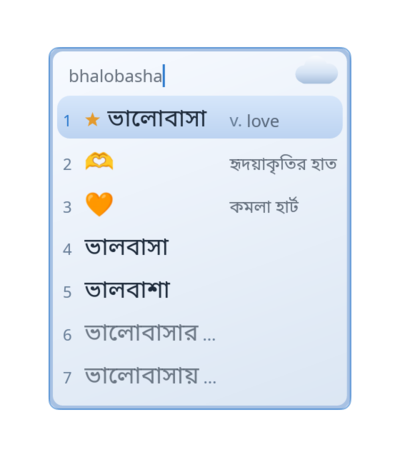
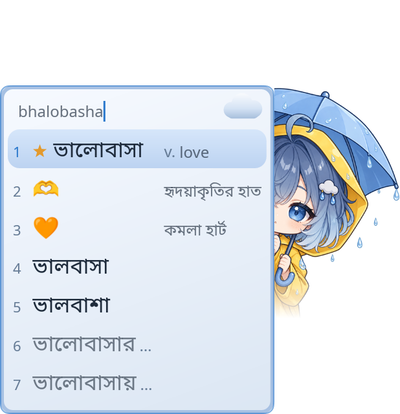
docs: the mascots of the Shapla, Borsha and Jonaki themes, their screenshots and the popup overhang per layout

diff --git a/docs/design/candidate-window.md b/docs/design/candidate-window.md
@@ -39,13 +39,13 @@ Cost of the choice: the popup is placed at window origin + cursor rectangle, so 
 
 ## Themes
 
-The horizontal list draws each candidate as a small column: the number and the word on top and the English meaning on a line below, with the highlight covering both lines. The line is reserved only when some candidate has a meaning (`when: "annotations"`). All built-in themes share this item. There is no paging: the Server shows at most nine candidates, so there are no page arrows.
+The horizontal list draws each candidate as a small column: the number and the word on top and the English meaning on a line below, with the highlight covering both lines. The line is reserved only when some candidate has a meaning (`when: "annotations"`). All built-in themes share this item. Mascots stand or lie outside the card and each picture is cut, sized and described in its theme's `README.md`. There is no paging: the Server shows at most nine candidates, so there are no page arrows.
 
 - `bornopata`: white-to-mint card, radius 14, layered shadow, green highlight pill with a gradient, star for learned words, trailing ellipsis for completions, arrow for next-word suggestions, a `Tab` chip.
 - `sakura`: bright pink glass with a mascot (a chibi girl with a green leaf hairpin, `images/character.png`, supplied by the project owner; see the theme's README) resting her paws on the top-left edge of the card, a bow, an outline crown that bobs, petals drifting and blossoms rocking in a loop (the animation is why the window asks for repeated frames). `meta.popup_overhang` says how far this decoration may hang over the card in the Wayland popup. Locked to light. Built-in themes list their images in `src/theme/mod.rs`; a test fails when a file is not listed.
-- `shapla`: a cool water-lily card (the national flower of Bangladesh), white and pale teal, a lily in the top-right corner and two ripples spreading at the bottom. Locked to light.
-- `borsha`: a rainy-day card, blue-grey with squarer corners, a cloud in the corner and raindrops falling through the window. Locked to light.
-- `jonaki`: a night card, deep indigo with a gold border, a crescent moon in the corner and three fireflies drifting and glowing. Locked to dark.
+- `shapla`: a cool water-lily card (the national flower of Bangladesh), white and pale teal, a lily in the top-right corner and two ripples spreading at the bottom. The mascot is a chibi girl with a long white-silver braid fading to teal and a water lily in her hair: sitting on the top edge near the right corner in the vertical layout, lying along it with the braid trailing in the horizontal one. Locked to light.
+- `borsha`: a rainy-day card, blue-grey with squarer corners, a cloud in the corner and raindrops falling through the window. The mascot is a girl in a yellow raincoat: peeking from behind the card's right edge with a blue umbrella in the vertical layout, lying along the top edge beside a closed umbrella in the horizontal one. Locked to light.
+- `jonaki`: a night card, deep indigo with a gold border, a crescent moon in the corner and three fireflies drifting and glowing. The mascot is a girl with long indigo hair and a lantern jar of fireflies: leaning on the card's right edge in the vertical layout, lying along the top edge in the horizontal one. Locked to dark.
 - Their decoration sits inside the card (the top line leaves room for it), because the input-method popup shows the card cropped to its rectangle and would cut off anything hanging over the corner.
 - All pictures are SVGs drawn for Bornopata (`themes/*/images`) under GPL-3.0-or-later. Nothing from Qingjian's themes, whose artwork has its own copyrights, is included.
 

diff --git a/docs/design/popup-surface.md b/docs/design/popup-surface.md
@@ -39,7 +39,7 @@ The Server keeps three slots; a frame is skipped when all are in use. A bitmap b
 
 ## The shape of the bitmap
 
-The compositor puts the top-left corner of the popup at the caret. Whatever the popup shows above or to the left of the card therefore moves the card down or right, away from the caret; what it shows to the right or below costs nothing. The bitmap is cropped to the card plus the overhang the theme declares in `meta.popup_overhang` (top, right, bottom, left, in points), at most what the bitmap holds. A theme without the field shows the card only, and a shadow would show as a tint in the rounded corners, so themes meant for the popup have no shadow. The Sakura theme declares 58 pt above (the mascot's head), 14 pt below (the blossoms) and 10 pt to the left, so the card sits about 58 pt below the caret there.
+The compositor puts the top-left corner of the popup at the caret. Whatever the popup shows above or to the left of the card therefore moves the card down or right, away from the caret; what it shows to the right or below costs nothing. The bitmap is cropped to the card plus the overhang the theme declares in `meta.popup_overhang` (top, right, bottom, left, in points), at most what the bitmap holds. A theme without the field shows the card only, and a shadow would show as a tint in the rounded corners, so themes meant for the popup have no shadow. The Sakura theme declares 58 pt above (the mascot's head), 14 pt below (the blossoms) and 10 pt to the left, so the card sits about 58 pt below the caret there. Themes with a mascot beside the card (Borsha and Jonaki, vertical) or lying on its top edge (horizontal) declare one overhang for both layouts; the bitmap only holds what the layout draws, so a layout that draws nothing above the card is not pushed down. Putting a mascot on the right or below the card costs no room at all.
 
 The overhang is a fixed number, never measured from the pixels. A crop that followed the visible pixels moved the card by a pixel or two with every animation frame, because the petals and the crown move; `popup/pixels.rs` is plain arithmetic for this reason.
 

diff --git a/docs/user/settings/themes.md b/docs/user/settings/themes.md
@@ -12,9 +12,9 @@ Set `theme` in `[panel]` of [the config file](config-file.md); the window change
 |---|---|
 | `bornopata` (default) | ![bornopata](images/theme-bornopata.png) Soft green and white. Has a dark variant (`dark = true`). |
 | `sakura` | ![sakura](images/theme-sakura.png) Bright pink, with a little mascot peeking over the corner of the window, a bow, a crown that bobs, and falling petals. Always light. |
-| `shapla` | ![shapla](images/theme-shapla.png) Mint and teal with a water lily (shapla), the national flower of Bangladesh. Always light. |
-| `borsha` | ![borsha](images/theme-borsha.png) Rain blue with a cloud. Always light. |
-| `jonaki` | ![jonaki](images/theme-jonaki.png) A night sky: deep blue with a moon and drifting fireflies (`jonaki`). Always dark. |
+| `shapla` | ![shapla](images/theme-shapla.png) Mint and teal with a water lily (shapla), the national flower of Bangladesh, and a girl with a long white braid who sits on the window's edge (lies along it in the horizontal layout). Always light. |
+| `borsha` | ![borsha](images/theme-borsha.png) Rain blue with a cloud, and a girl in a yellow raincoat who peeks from behind the window with an umbrella (lies along its edge in the horizontal layout). Always light. |
+| `jonaki` | ![jonaki](images/theme-jonaki.png) A night sky: deep blue with a moon and drifting fireflies, and a girl with a lantern of fireflies who leans on the window (lies along its edge in the horizontal layout). Always dark. |
 
 You can also point `theme` at the path of a theme folder of your own.
 

diff --git a/CHANGELOG.md b/CHANGELOG.md
@@ -5,6 +5,7 @@ Written by hand by the maintainers at release time; pull requests do not edit it
 ## Unreleased
 
 - The Sakura theme has a pink mascot peeking over the corner of the window, with a bow, a crown that bobs and falling petals. The Wayland popup now shows decoration that hangs over the card, up to what the theme declares.
+- The Shapla, Borsha and Jonaki themes have mascots too: beside or on the vertical window, and lying along the top edge of the horizontal one. Every mascot wears modest long clothes.
 - The horizontal candidate list shows the English meaning under each word, like the vertical list does beside it.
 - A new logo: a white ব with two leaves on green, in the settings program, the launcher entry, Fcitx5's list of input methods and the website.
 - Words the letters cannot spell are found too: `moddhe` gives মধ্যে, `porjonto` পর্যন্ত, `dukkho` দুঃখ.
